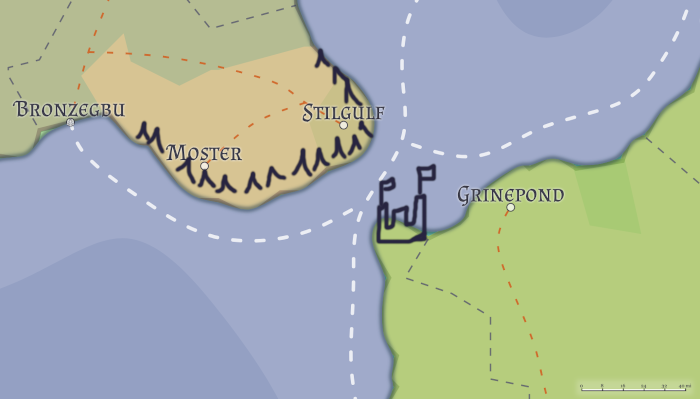
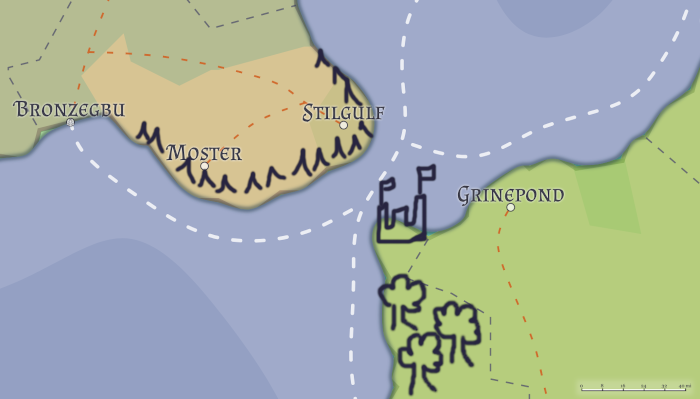
Adds new post :) part I. Updates change log. Updates map.

Changed region(s): [[0.54, 0.6617, 0.69, 0.9925]]

diff --git a/_drafts/la-guerra-interior-parte-ii.md b/_drafts/la-guerra-interior-parte-ii.md
@@ -1,0 +1,91 @@
+---
+layout: post
+title: La guerra interior - Parte II
+---
+
+-- Vine por tí. Estás en pelig-- ¡HUGH!
+
+-- ¡SILENCIO! --dijo el que le propinó la patada, que estaba detrás de él--
+Maldita basura, los tuyos sólo saben envenenar oídos.
+
+El hombre tendría unos 30 años, el pelo revuelto y grasiento se le pegaba en la
+frente por la sangre seca. Volvió a mirar al rey, no mostraba miedo alguno a la
+muerte.
+
+-- Me dijeron que eras el líder de los Stilgulfeos. ¿A qué has venido, luego de
+tantos años?
+
+-- ¡OH DIOSES! ¡Disculpen la imprudencia de mi señor! --gritó el sacerdote. El
+rey levantó la hoja de la espada a la altura de la nariz del religioso.
+
+-- No vuelvas a hablar en mi presencia hasta que yo te lo diga o primero
+cortaré tu cabeza. 
+
+El sacerdote hizo una reverencia y retrocedió unos pasos. A pesar de la amenaza
+algo se le antojaba muy gracioso y lo hizo evidente con su sonrisa.
+
+-- Nunca esperé así tu regreso. ¡Habla!
+
+-- Vengo desde detrás de las montañas, desde Bronzegbu, más allá de la llanura
+de Moster. Por favor, abandona esta locura, te están mintiendo. Sí, me uní a
+los Stilgulfeos pero para saber de tí. Nunca han visto un soldado de nuestra
+gente... ¡apenas saben que existimos! Ven conmigo, ¡ellos quieren robarte el
+trono y van a matarte!
+
+-- Mi señor, no pierda tiempo con esta escoria de Stilgulf. Él ya no es su
+hijo, mire las trenzas de su nuevo linaje, se ha unido a...
+
+-- ¿Lo sabías? ¿¿Sabías que era mi hijo y no me avisaron??
+
+-- Lo importante, es que la guerra está a punto de acabar. ¿No es eso lo que su
+padre luchó toda la vida, mi señor?
+
+El rey miró fijo al noble y bajó la espada. El silencio en el ambiente se
+interrumpía con el crepitar de las antorchas.
+
+-- Hagámoslo.
+
+-- ¿Qué...? --el hijo del rey estaba más sorprendido por la incredulidad de su
+padre que por la muerte que se le cernía encima. El noble volvió a echar su
+peso sobre la espalda del muchacho y dejar descubierto su cuello.
+
+-- Tantos años abandonado... Una guerra que parece interminable... todo ésto se
+acaba aquí y ahora.
+
+El rey en su posición, dos nobles como testigos y un sacerdote que elevaba las
+plegarias que el ritual de decapitación exigía. Una escena que se hacía cada
+vez más larga a medida que el puño de la espada subía por arriba de la cabeza
+del rey.
+
+Y entonces, bajó.
+
+Una, dos, tres veces cortó el aire.
+
+El cuerpo del muchacho quedó inerte sobre el tronco. Sólo cuando los cadáveres
+cayeron al piso al unísono fue que abrió los ojos. Su padre, de pié con la
+espada aún en la mano, respiraba agitado y profundo, con la mirada perdida en
+otra parte, una vez más.
+
+-- Mi padre estaba loco. Sólo quería ver sangre correr, de quien sea. Se que
+más de una vez pensó en hacerme daño sólo para saciar su guerra interior.
+Ahorcó a mi madre por decir tus mismas palabras, por protegerme. Para él, todos
+éramos el enemigo. Esta espada hizo correr más sangre dentro mi familia que
+en cualquier otra.
+
+Y la espada cayó al piso haciendo un sonido opaco, indiferente.
+
+Cortó los lazos para liberar a su hijo y lo ayudó a ponerse de pié. Se miraron
+por un momento, el rey tomó el rostro amado entre sus manos y lo abrazó. Al
+separarse, ambos vieron a lo lejos el resplandor del incendio que venía del
+castillo.
+
+-- Pensé que esta noche iba a morir. Lo deseaba. Sin tí, reinar no tenía
+sentido. Yo quería un mundo diferente, pero me dejé llevar por esta religión
+absurda.
+
+-- ¿Vendrás conmigo?
+
+-- No. Sólo seré un lastre, no podrás llegar muy lejos. Ahora que se que estás
+vivo, tengo mi primera batalla que pelear.
+
+

diff --git a/_posts/2019-12-31-la-guerra-interior-parte-i.md b/_posts/2019-12-31-la-guerra-interior-parte-i.md
@@ -1,14 +1,15 @@
 ---
 layout: post
-title: La guerra interior
-subtitle:
-background: /assets/post/dominik-mayer-bluelight-in-the-dark.jpg
+title: La guerra interior - Parte I
+background: "/assets/post/dominik-mayer-bluelight-in-the-dark.jpg"
 artist: artstation.com/dtmayer
 author: Ariel Gerardo Ríos
 comments: true
-tags: [ficción, medieval]
+tags:
+- ficción
+- medieval
+date: 2019-12-31 00:19 -0300
 ---
-
 La red del pescador cae con destreza en el agua moviendo la sutil superficie.
 En su bote, al pié de la muralla que se eleva 30 metros, lleva adelante su
 rutina diaria; una vida sin sobresaltos, tranquila, igual que la brisa fría
@@ -51,8 +52,7 @@ soldado por delante marcando el camino y los fieles nobles por detrás. Años
 habían pasado desde la última vez que lo vio y la herida más grande no era la
 ausencia, sino descubrir que los unía todas esas cosas que no tenían en común.
 
-Los dos de atrás que cerraban la marcha intercambiaban miradas preocupadas cada
-cierta cantidad de pasos.
+Los dos de atrás que cerraban la marcha intercambiaban miradas cada tanto.
 
 Llegaron a lo que quedaba del Bosque de los Susurros. Los álamos gigantes se
 perdían en la altura y cortaban el viento con un aullido tan claro que parecía
@@ -87,22 +87,23 @@ A todo ésto, el rey miraba la faena pero no mostraba ningún interés en
 participar. Guardaba silencio, después de todo, estos hombres hacían todo el
 trabajo sucio que era necesario. La guerra que llevó a la gloria al reino de su
 padre nunca había terminado pero él nunca había empezado. Encontró la forma de
-no ensuciarse las manos por terceros y mantenerse al margen de cortar cabezas,
-aunque matar al líder de sus enemigos le pertenecía a él. Era la religión la
-que lo mandaba.
+no ensuciarse sus manos con las de terceros y mantenerse al margen de cortar
+cabezas, con un módico precio de vergüenza, aunque matar al líder de sus
+enemigos era ineludible. Era la religión la que lo mandaba.
 
 -- La espada de su padre, mi señor, limpia de la sangre de sus enemigos.
-Hambrienta busca saciar otra vez su sed de venganza contra los que quieren ver
-el fin de vuestro linaje.
+Está hambrienta y busca saciar otra vez su sed de venganza contra los que
+quieren ver el fin de vuestro linaje.
 
--- Quítenle la capucha. Quiero ver los ojos del hombre que va a morir.
+-- Quítenle la capucha. Quiero ver los ojos del hombre que va a morir. Era lo
+que siempre decía mi padre.
 
 Hubo un intercambio rápido de miradas entre los nobles, pero ninguno dio un
 paso para hacer el mandato.
 
 -- Mi señor, no es necesario hacerl...
 
--- Quiero hacerlo una vez al menos como lo hacía mi padre. ¡Ahora!
+-- ¡Dije que quiero hacerlo como lo hacía mi padre! ¡AHORA!
 
 La capucha que se retiraba dio paso a un rostro, con la sangre que le corría
 desde la nariz hasta el mentón. Tenía un ojo tan morado que no podía abrirlo y
@@ -110,9 +111,9 @@ más marcas de una paliza anterior. La noche ya había caído en el bosque y
 alguien prendió unas antorchas sin que se lo pidiesen. El prisionero miró a los
 que lo rodeaban y fijó su mirada en el rey.
 
--- ¿Qué... Qué es esto? --dijo el rey.
+-- ¿Qué... Qué es esto? ¿Qué haces aquí? --dijo el rey.
 
-
+CONTINUARÁ.
 
 ## Notas
 

diff --git a/CHANGELOG.md b/CHANGELOG.md
@@ -4,6 +4,12 @@ All notable changes to this project will be documented in this file.
 The format is based on [Keep a Changelog](https://keepachangelog.com/en/1.0.0/),
 and this project adheres to [Semantic Versioning](https://semver.org/spec/v2.0.0.html).
 
+## [1.1.0] - 2019-12-31
+### Added
+- New post: La guerra interior - Parte I.
+- Updates map with trees :)
+- New draft for part II.
+
 ## [1.0.2] - 2019-12-30
 ### Added
 - Funding file.
